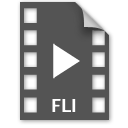
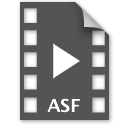
wmv file type recognition for support with pluggins

Changed region(s): [[0.375, 0.75, 0.625, 0.9062]]

diff --git a/English.lproj/NicePlayer Help/chapt3/chp3.htm b/English.lproj/NicePlayer Help/chapt3/chp3.htm
@@ -8,14 +8,16 @@
      
      <body>
      
-     <font size="4" face="Lucida Grande, Helvetica, Arial">Playing DivX</font><font size="2" face="Lucida Grande, Helvetica, Arial"> 
+     <font size="4" face="Lucida Grande, Helvetica, Arial">Playing DivX/WMV</font><font size="2" face="Lucida Grande, Helvetica, Arial"> 
 	<p>
      To be able to playback most DivX/3ivx/XviD content in NicePlayer, you should install the following plugins:</p>
 	<ul>
 	<li>The DivX 5 Codec for QuickTime (<a href="http://www.divx.com">http://www.divx.com</a>)</li>
 	<li>The 3ivX Codec for QuickTime (<a href="http://www.3ivx.com">http://www.3ivx.com</a>)</li>
 	</ul>
+        <p>
+        To be able to playback WMV/ASF content in NicePlayer, you can purchase the $10 WMV Player for QuickTime from <a href="http://flipformac.com/wmv.htm">http://flipformac.com/wmv.htm</a>
 	</p>
 </body>
-
+     
 </html>

diff --git a/Classes/Viewer Interface/Pluggable Players/RCMovieView.m b/Classes/Viewer Interface/Pluggable Players/RCMovieView.m
@@ -16,10 +16,10 @@
         /* File extensions */
         @"avi", @"mov", @"qt", @"mpg", @"mpeg", @"m15", @"m75", @"m2v", @"3gpp", @"mpg4", @"mp4", @"png",
         @"gif", @"bmp", @"tif", @"pic", @"pct", @"pict", @"jpg", @"jpeg", @"qtif", @"swf", @"fli",
-        @"flc", @"dv", 
+        @"flc", @"dv",  @"wmv",@"asf",
         /* Finder types */
         @"VfW", @"MooV", @"MPEG", @"m2v ", @"mpg4", @"PNG ", @"GIF ", @"GiFf", @"BMP ", @"TIFF", @"PICT",
-        @"JPEG", @"qtif", @"SWFL", @"FLI ", @"dvc!",
+        @"JPEG", @"qtif", @"SWFL", @"FLI ", @"dvc!",@"ASF_",
         nil];
     return [NSDictionary dictionaryWithObjects:[NSArray arrayWithObjects:@"CoreVideo",	extensions,			nil]
                                        forKeys:[NSArray arrayWithObjects:@"Name",		@"FileExtensions",	nil]];	

diff --git a/Classes/Viewer Interface/Pluggable Players/JTMovieView.m b/Classes/Viewer Interface/Pluggable Players/JTMovieView.m
@@ -22,10 +22,10 @@
         /* File extensions */
         @"avi", @"mov", @"qt", @"mpg", @"mpeg", @"m15", @"m75", @"m2v", @"3gpp", @"mpg4", @"mp4", @"png",
         @"gif", @"bmp", @"tif", @"pic", @"pct", @"pict", @"jpg", @"jpeg", @"qtif", @"swf", @"fli",
-        @"flc", @"dv", 
+        @"flc", @"dv", @"wmv",@"asf",
         /* Finder types */
         @"VfW", @"MooV", @"MPEG", @"m2v ", @"mpg4", @"PNG ", @"GIF ", @"GiFf", @"BMP ", @"TIFF", @"PICT",
-        @"JPEG", @"qtif", @"SWFL", @"FLI ", @"dvc!",
+        @"JPEG", @"qtif", @"SWFL", @"FLI ", @"dvc!",@"ASF_",
         nil];
     return [NSDictionary dictionaryWithObjects:[NSArray arrayWithObjects:@"Quicktime",	extensions,			nil]
                                        forKeys:[NSArray arrayWithObjects:@"Name",		@"FileExtensions",	nil]];	
